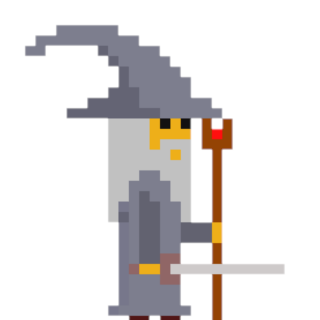
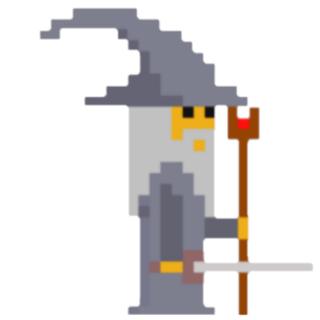
The charectors are now in fact on the board

diff --git a/src/GameBoard/Board.java b/src/GameBoard/Board.java
@@ -61,11 +61,11 @@ public class Board extends Application {
 			for (column = 0; column < 15; column++) {
 				if(column == 7)
 				{
-					game.add(box[row][column] = new Square(row, column, column), column, row);
+					game.add(box[row][column] = new Square(row, column, row, column), column, row);
 				}
 				else
 				{
-					game.add(box[row][column] = new Square(row, column, column), column, row);
+					game.add(box[row][column] = new Square(row, column, row, column), column, row);
 				}
 			}
 		}
@@ -102,17 +102,35 @@ public class Board extends Application {
 		private int xloc, yloc;
 
 		// Used to create and update the board
-		public Square(int xloc, int yloc, int column) {
+		public Square(int xloc, int yloc, int row, int column) {
 			this.xloc = xloc;
 			this.yloc = yloc;
-
 			
 			Image grassImg = new Image(getClass().getResource("grassTile.jpg").toExternalForm());
-			ImageView grass = new ImageView(grassImg);
+			ImageView grass = new ImageView();
+			grass.setImage(grassImg);
 			
 			
 			Image pathImg = new Image(getClass().getResource("pathTile.jpg").toExternalForm());
-			ImageView path = new ImageView(pathImg);
+			ImageView path = new ImageView();
+			path.setImage(pathImg);
+			
+			
+			Image knightImg = new Image(getClass().getResource("pixelKnight.png").toExternalForm());
+			ImageView knight = new ImageView();
+			knight.setImage(knightImg);
+			
+			Image wizardImg = new Image(getClass().getResource("pixelWizard.png").toExternalForm());
+			ImageView wizard = new ImageView();
+			wizard.setImage(wizardImg);
+			
+			Image clericImg = new Image(getClass().getResource("pixelCleric.png").toExternalForm());
+			ImageView cleric = new ImageView();
+			cleric.setImage(clericImg);
+			
+			Image rogueImg = new Image(getClass().getResource("pixelRogue.png").toExternalForm());
+			ImageView rogue = new ImageView();
+			rogue.setImage(rogueImg);
 			
 			// Background color is white, boarders are black
 			this.setStyle("-fx-border-color: black;");
@@ -125,6 +143,18 @@ public class Board extends Application {
 			path.setFitWidth(99);
 			path.setPreserveRatio(true);
 			
+			knight.setFitWidth(99);
+			knight.setPreserveRatio(true);
+			
+			wizard.setFitWidth(99);
+			wizard.setPreserveRatio(true);
+			
+			cleric.setFitWidth(99);
+			cleric.setPreserveRatio(true);
+			
+			rogue.setFitWidth(99);
+			rogue.setPreserveRatio(true);
+			
 			if(column != 7)
 			{
 				this.getChildren().add(grass);
@@ -132,6 +162,23 @@ public class Board extends Application {
 			else
 			{
 				this.getChildren().add(path);
+			}
+			
+			if((column == 2 && row == 1) || (column == 2 && row == 8) || (column == 12 && row == 1) || (column == 12  && row == 8))
+			{
+				this.getChildren().add(knight);
+			}
+			if((column == 7 && row == 1) || (column == 7 && row == 8))
+			{
+				this.getChildren().add(wizard);
+			}
+			if((column == 5 && row == 1) || (column == 5 && row == 8))
+			{
+				this.getChildren().add(cleric);
+			}
+			if((column == 9 && row == 1) || (column == 9 && row == 8))
+			{
+				this.getChildren().add(rogue);
 			}
 		}
 
